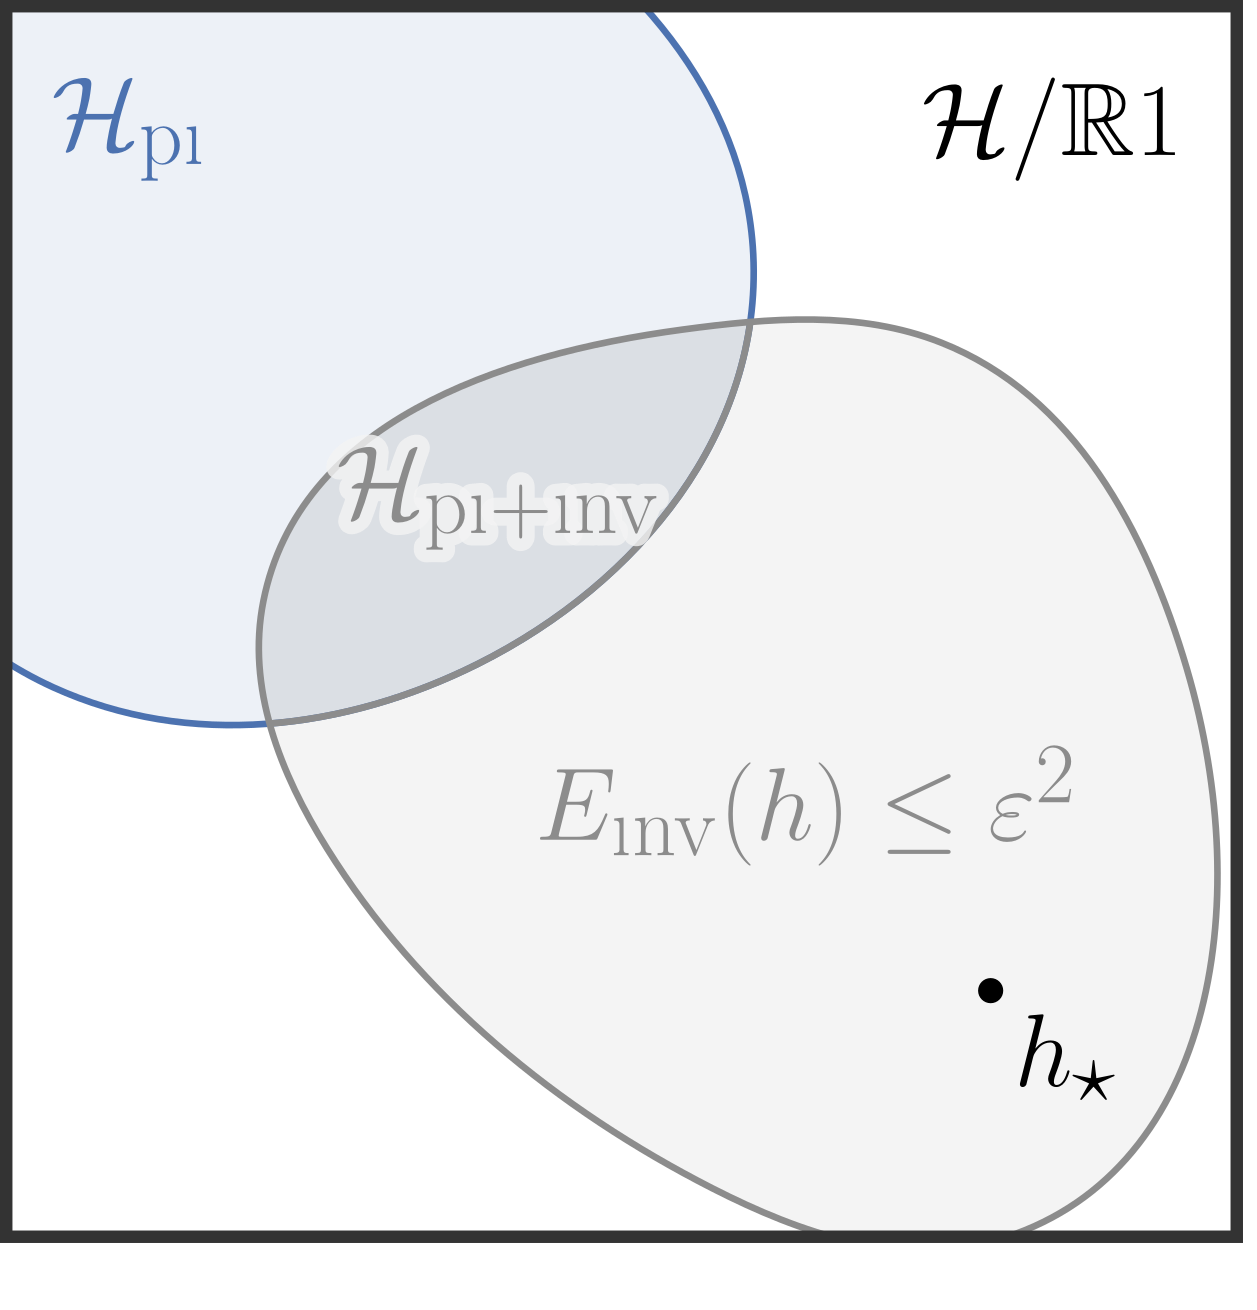
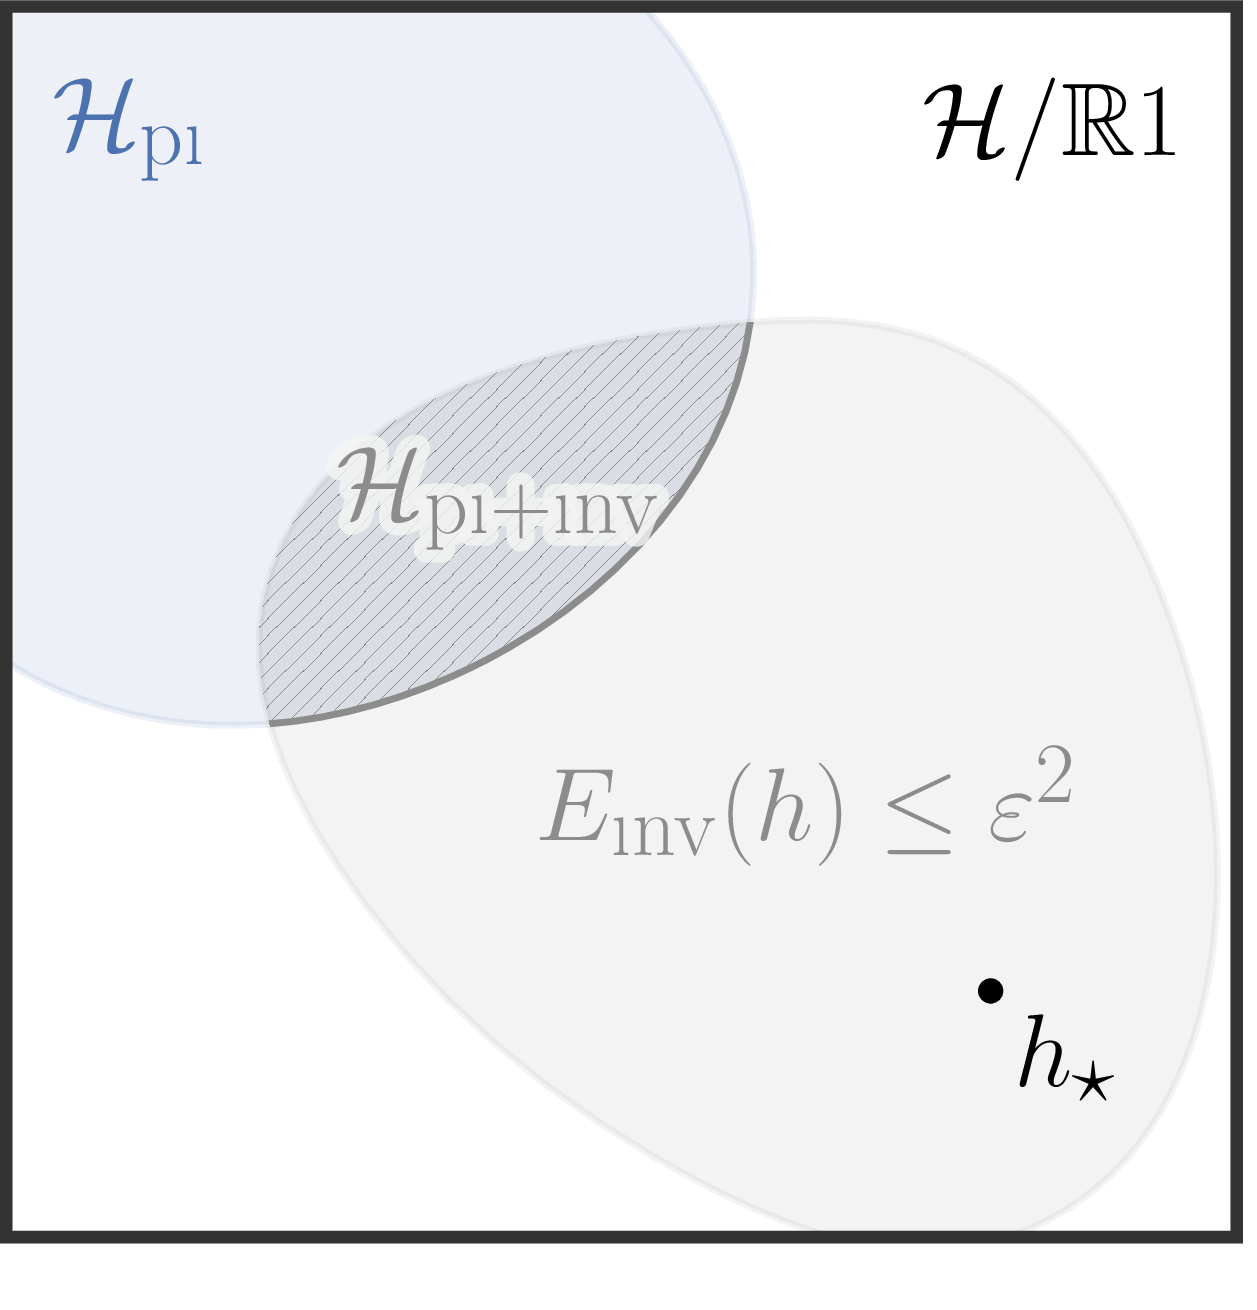
dotless i, uncolor macros, authors on one line

diff --git a/style.scss b/style.scss
@@ -2,6 +2,9 @@
 
 $primary-color: #0c2344;
 
+/* fit all five authors on one line of the title slide */
+$authors-block-gap: 0em;
+
 /* Fix blurry images */
 img {
 image-rendering: -webkit-optimize-contrast;
